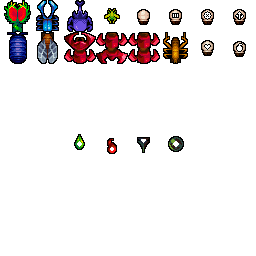
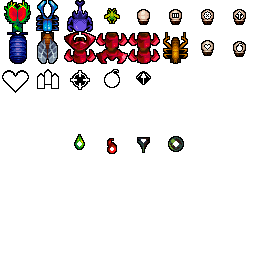
current stats ui

diff --git a/GMTK23/World.cs b/GMTK23/World.cs
@@ -1,6 +1,7 @@
 using System;
 using System.Linq;
 using ExplogineMonoGame;
+using ExplogineMonoGame.AssetManagement;
 using ExplogineMonoGame.Data;
 using ExplogineMonoGame.Rails;
 using ExTween;
@@ -127,6 +128,21 @@ public class World : IUpdateHook
             painter.DrawStringWithinRectangle(Client.Assets.GetFont("gmtk/GameFont", 32), "Insert Coin", Bounds,
                 Alignment.Center, new DrawSettings());
             return;
+        }
+        
+        var hpRect = new Rectangle(8, 8, 32, 32);
+        
+        for (int i = 0; i < PlayerStatistics.Health; i++)
+        {
+            Global.MainSheet.DrawFrameAsRectangle(painter, 16, hpRect, new DrawSettings());
+            hpRect = hpRect.Moved(new Vector2(32, 0));
+        }
+        
+        var bombRect = new Rectangle(8, 8 + 32, 32, 32);
+        for (int i = 0; i < PlayerStatistics.Bombs; i++)
+        {
+            Global.MainSheet.DrawFrameAsRectangle(painter, 19, bombRect, new DrawSettings());
+            bombRect = bombRect.Moved(new Vector2(20, 0));
         }
 
         if (!IsStarted)

diff --git a/GMTK23/PlayerShip.cs b/GMTK23/PlayerShip.cs
@@ -21,6 +21,7 @@ public class PlayerShip : Ship
     private float _invulnerableTimer;
     private bool _shouldAnimate;
     private PowerUpType? _currentPowerUp;
+    private int _bombs = 3;
 
     public PlayerShip(PlayerPersonality personality) : base(Team.Player, 5)
     {
@@ -106,6 +107,10 @@ public class PlayerShip : Ship
 
     public override void Update(float dt)
     {
+        World.PlayerStatistics.Health = Health;
+        World.PlayerStatistics.Bombs = _bombs;
+        World.PlayerStatistics.CurrentPowerUp = _currentPowerUp;
+        
         if (!World.IsStarted)
         {
             return;

diff --git a/GMTK23/PlayerStatistics.cs b/GMTK23/PlayerStatistics.cs
@@ -23,4 +23,10 @@ public class PlayerStatistics
             BossMeter += dt / 10;
         }
     }
+
+    public int Health;
+
+    public int Bombs;
+
+    public PowerUpType? CurrentPowerUp;
 }
